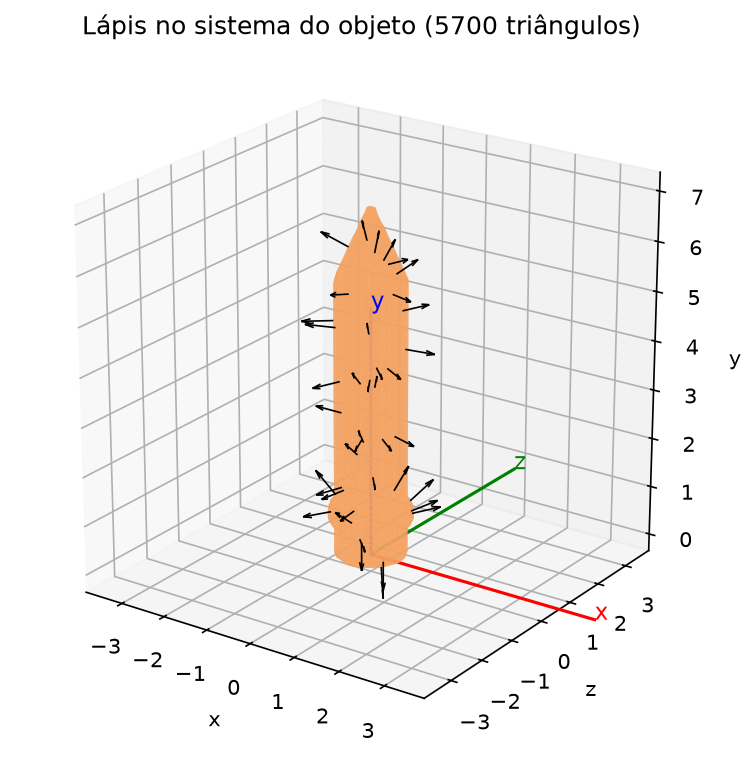
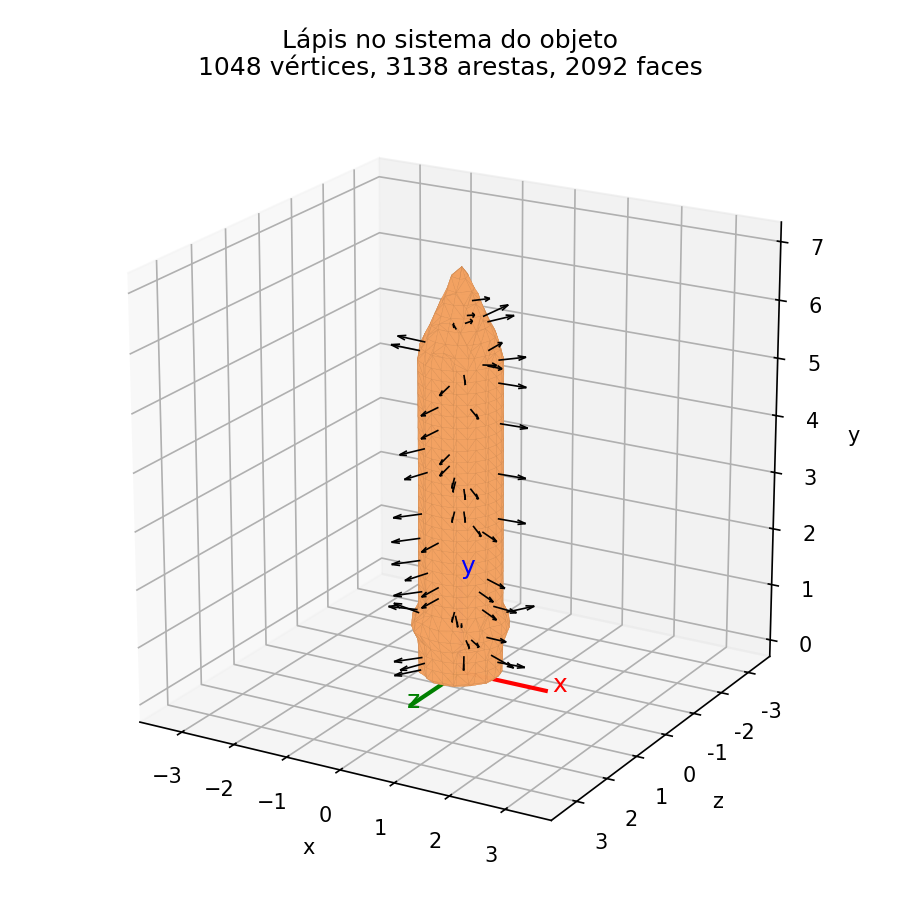
feat(modeling): implementa função criar_solido e catálogo de objetos; atualiza visualização e documentação

diff --git a/main.py b/main.py
@@ -24,19 +24,13 @@ Z_BIAS        = 0.005                           # Tolerância do Z-buffer para e
 # CENA — peças, posições, cores e limites do Marching Cubes
 # ==============================================================================
 CENA = [
-    # (função_de_campo, pos_x, pos_z, cor_hex, label, escala, limites_malha)
-    (modeling.gerar_campo_peao,   -7.5, -4.5, "#E63946", "Peão",   1.0, None),
-    (modeling.gerar_campo_lapis,  -4.5,  1.5, "#F4A261", "Lápis",  1.0, (-1.5, 8)),
-    (modeling.gerar_campo_altere, -1.5, -4.5, "#2A9D8F", "Altere", 1.0, (-3.5, 3.5)),
-    (modeling.gerar_campo_martelo, 1.5,  1.5, "#A8DADC", "Martelo", 1.0, (-2, 6)),
-    (modeling.gerar_campo_lixeira, 4.5, -4.5, "#C77DFF", "Lixeira", 1.0, (-2.5, 4.5)),
+    # (nome do sólido em modeling.MODELOS, pos_x, pos_z, escala)
+    ("Peão",    -7.5, -4.5, 1.0),
+    ("Lápis",   -4.5,  1.5, 1.0),
+    ("Altere",  -1.5, -4.5, 1.0),
+    ("Martelo",  1.5,  1.5, 1.0),
+    ("Lixeira",  4.5, -4.5, 1.0),
 ]
-
-
-def hex_to_rgb(hex_str):
-    """Converte '#RRGGBB' em tupla RGB float [0.0, 1.0]."""
-    hex_str = hex_str.lstrip('#')
-    return [int(hex_str[i:i + 2], 16) / 255.0 for i in (0, 2, 4)]
 
 
 def construir_matriz_mundo(px, pz, escala=1.0, rotacao_y=0.0):
@@ -174,7 +168,7 @@ def desenhar_caixa_proporcao_mundo(imagem, z_buffer, view_matrix, proj_matrix, r
 # ==============================================================================
 # PIPELINE DE RENDERIZAÇÃO — Culling + Phong + Scan-line + Z-buffer
 # ==============================================================================
-def renderizar_cena_completa(resolucao_tela, view_matrix, proj_matrix, cache_malhas,
+def renderizar_cena_completa(resolucao_tela, view_matrix, proj_matrix, solidos,
                              posicao_camera, posicao_luz, modo_blender=False):
     """
     Renderiza a cena completa em uma imagem NumPy (H x W x 3).
@@ -192,11 +186,13 @@ def renderizar_cena_completa(resolucao_tela, view_matrix, proj_matrix, cache_mal
 
     desenhar_caixa_proporcao_mundo(imagem, z_buffer, view_matrix, proj_matrix, resolucao_tela)
 
-    for func_campo, px, pz, cor_hex, label, escala, limites in CENA:
-        cache_key = func_campo.__name__ + str(limites)
-        verts, faces, normais = cache_malhas[cache_key]
+    for nome, px, pz, escala in CENA:
+        solido  = solidos[nome]
+        verts   = solido["vertices"]
+        faces   = solido["faces"]
+        normais = solido["normais_vertices"]
         matriz_mundo = construir_matriz_mundo(px, pz, escala=escala)
-        cor_base     = hex_to_rgb(cor_hex)
+        cor_base     = solido["cor"]
 
         # Estágio 1: transforma vértices e normais para o espaço do mundo
         vertices_tela   = []
@@ -208,8 +204,8 @@ def renderizar_cena_completa(resolucao_tela, view_matrix, proj_matrix, cache_mal
             v_mundo = matriz_mundo @ np.array([verts[i][0], verts[i][1], verts[i][2], 1.0])
             vertices_mundo.append(v_mundo[:3])
 
-            # Marching Cubes retorna normais apontando para o interior (F < 0); invertemos
-            n_mundo = (matriz_mundo @ np.append(-normais[i], 0.0))[:3]
+            # Normais do sólido já apontam para fora (ver modeling.criar_solido)
+            n_mundo = (matriz_mundo @ np.append(normais[i], 0.0))[:3]
             normais_mundo.append(n_mundo)
 
             v_ndc = math_3d.divisao_perspectiva(proj_matrix @ (view_matrix @ v_mundo))
@@ -290,15 +286,12 @@ def renderizar_cena_completa(resolucao_tela, view_matrix, proj_matrix, cache_mal
 def main():
     print("=== PIPELINE CG — MALHAS + PHONG + SCAN-LINE + Z-BUFFER ===")
 
-    # Cache de malhas: cada peça é extraída uma única vez
-    cache_malhas = {}
+    # Item 1: cada sólido é construído uma única vez (vértices, arestas, faces, normais, cor)
+    solidos = {}
     total = len(CENA)
-    for i, (func_campo, px, pz, cor_hex, label, escala, limites) in enumerate(CENA):
-        cache_key = func_campo.__name__ + str(limites)
-        print(f"  [{i + 1}/{total}] Extraindo malha: {label}")
-        if cache_key not in cache_malhas:
-            kwargs = {"limites": limites, "resolucao": RESOLUCAO_MARCHING_CUBES} if limites else {"resolucao": RESOLUCAO_MARCHING_CUBES}
-            cache_malhas[cache_key] = modeling.extrair_malha(func_campo, **kwargs)
+    for i, (nome, *_resto) in enumerate(CENA):
+        print(f"  [{i + 1}/{total}] Criando sólido: {nome}")
+        solidos[nome] = modeling.obter_solido(nome, RESOLUCAO_MARCHING_CUBES)
 
     # Matrizes de câmera e projeção para cada viewport
     view_principal = math_3d.look_at(eye=EYE_PRINCIPAL, at=AT, up=UP)
@@ -314,7 +307,7 @@ def main():
         print(f"  Rasterizando {res}×{res}...")
         img = renderizar_cena_completa(
             res, view_principal, proj_principal,
-            cache_malhas, EYE_PRINCIPAL, POSICAO_LUZ
+            solidos, EYE_PRINCIPAL, POSICAO_LUZ
         )
         ax.imshow(img)
         ax.set_title(f"Resolução: {res} × {res}", fontsize=11, fontweight='bold', color='#2c3e50')
@@ -328,7 +321,7 @@ def main():
     print("\n  Rasterizando viewport externa 800×800...")
     img_blender = renderizar_cena_completa(
         800, view_blender, proj_blender,
-        cache_malhas, EYE_BLENDER, POSICAO_LUZ,
+        solidos, EYE_BLENDER, POSICAO_LUZ,
         modo_blender=True
     )
 

diff --git a/visualizar_objetos.py b/visualizar_objetos.py
@@ -1,0 +1,112 @@
+"""
+visualizar_objetos.py — Item 1e do enunciado
+=============================================
+Mostra cada um dos 5 sólidos no seu próprio sistema de coordenadas (sistema do objeto),
+com os eixos x, y, z na origem e setas com as normais de algumas faces.
+
+Uso:
+    python3 visualizar_objetos.py            # abre uma janela por objeto
+    python3 visualizar_objetos.py --salvar   # salva os PNGs nas figuras do relatório
+"""
+
+import sys
+from pathlib import Path
+
+import numpy as np
+import matplotlib.pyplot as plt
+from matplotlib.ticker import FuncFormatter
+from mpl_toolkits.mplot3d.art3d import Poly3DCollection
+
+import modeling
+
+RESOLUCAO = 50          # grade do Marching Cubes (menor que a da cena, para o plot ficar leve)
+NUM_NORMAIS = 60        # quantas normais de face desenhar como setas
+ELEVACAO, AZIMUTE = 20, -60   # ângulo de visão do plot (graus)
+PASTA_FIGURAS = Path(__file__).parent / "relatorio/figuras/03-desenvolvimento/01-modelagem"
+ARQUIVOS = {"Peão": "peao", "Lápis": "lapis", "Altere": "haltere",
+            "Martelo": "martelo", "Lixeira": "lixeira"}
+
+
+def para_plot(pontos):
+    """
+    O matplotlib desenha o 3º eixo para cima. Nos nossos objetos o "para cima" é y, então,
+    só na hora de desenhar, levamos (x, y, z) -> (x, -z, y). Isso é uma rotação de 90° em
+    torno de x (não um espelhamento), então o sistema continua sendo de mão direita.
+    """
+    pontos = np.asarray(pontos, dtype=float)
+    return np.stack([pontos[..., 0], -pontos[..., 2], pontos[..., 1]], axis=-1)
+
+
+def mostrar_solido(solido, ax):
+    vertices = solido["vertices"]
+    faces = solido["faces"]
+    cor = solido["cor"]
+
+    # Faces e arestas com a mesma cor do sólido
+    triangulos = para_plot(vertices[faces])
+    malha = Poly3DCollection(triangulos, facecolor=cor, edgecolor=cor * 0.85,
+                             linewidths=0.1, alpha=0.9)
+    ax.add_collection3d(malha)
+
+    # Normais: seta saindo do centroide de algumas faces. O matplotlib não esconde o que
+    # fica atrás da malha, então só sorteamos faces viradas para quem olha o gráfico.
+    e, a = np.radians(ELEVACAO), np.radians(AZIMUTE)
+    olho = np.array([np.cos(e) * np.cos(a), np.sin(e), -np.cos(e) * np.sin(a)])  # em (x, y, z)
+    visiveis = np.flatnonzero(solido["normais_faces"] @ olho > 0.3)
+    rng = np.random.default_rng(0)
+    escolhidas = rng.choice(visiveis, size=min(NUM_NORMAIS, len(visiveis)), replace=False)
+    centroides = vertices[faces[escolhidas]].mean(axis=1)
+    normais = solido["normais_faces"][escolhidas]
+    c, n = para_plot(centroides), para_plot(normais)
+    ax.quiver(c[:, 0], c[:, 1], c[:, 2], n[:, 0], n[:, 1], n[:, 2],
+              length=0.5, color="black", linewidth=0.8, arrow_length_ratio=0.3)
+
+    # Mesma escala nos 3 eixos para não deformar o objeto
+    minimo, maximo = vertices.min(axis=0), vertices.max(axis=0)
+    centro = (minimo + maximo) / 2
+    raio = (maximo - minimo).max() / 2 + 0.3
+
+    # Eixos do sistema do objeto, saindo da origem (compridos para sair de dentro do sólido)
+    tam = max(1.5, np.abs(vertices).max(axis=0)[[0, 2]].max() + 0.8)
+    for direcao, rotulo, cor_eixo in [((tam, 0, 0), "x", "red"),
+                                      ((0, tam, 0), "y", "blue"),
+                                      ((0, 0, tam), "z", "green")]:
+        d = para_plot(np.array(direcao, dtype=float))
+        ax.plot([0, d[0]], [0, d[1]], [0, d[2]], color=cor_eixo, linewidth=2)
+        ax.text(*(d * 1.08), rotulo, color=cor_eixo, fontsize=12)
+
+    raio = max(raio, tam - np.abs(centro).max() + 0.3)
+    c = para_plot(centro)
+    ax.set_xlim(c[0] - raio, c[0] + raio)
+    ax.set_ylim(c[1] - raio, c[1] + raio)
+    ax.set_zlim(c[2] - raio, c[2] + raio)
+    # O 2º eixo do gráfico guarda -z; o rótulo mostra o valor de z de verdade.
+    ax.yaxis.set_major_formatter(FuncFormatter(lambda valor, _: f"{-valor + 0.0:g}"))
+    ax.set_box_aspect((1, 1, 1))
+    ax.set_xlabel("x"); ax.set_ylabel("z"); ax.set_zlabel("y")
+    ax.set_title(f"{solido['nome']} no sistema do objeto\n"
+                 f"{len(vertices)} vértices, {len(solido['arestas'])} arestas, "
+                 f"{len(faces)} faces")
+    ax.view_init(elev=ELEVACAO, azim=AZIMUTE)
+
+
+def main():
+    salvar = "--salvar" in sys.argv
+    for nome in modeling.MODELOS:
+        print(f"Criando sólido: {nome}")
+        solido = modeling.obter_solido(nome, RESOLUCAO)
+        fig = plt.figure(figsize=(6, 6))
+        ax = fig.add_subplot(projection="3d")
+        mostrar_solido(solido, ax)
+        fig.tight_layout()
+        if salvar:
+            destino = PASTA_FIGURAS / f"{ARQUIVOS[nome]}.png"
+            fig.savefig(destino, dpi=150)
+            plt.close(fig)
+            print(f"  salvo em {destino}")
+    if not salvar:
+        plt.show()
+
+
+if __name__ == "__main__":
+    main()

diff --git a/modeling.py b/modeling.py
@@ -23,6 +23,68 @@ def extrair_malha(funcao_campo, limites=(-5, 12), resolucao=100):
 
 
 # ==============================================================================
+# SÓLIDO COMPLETO — item 1 do enunciado
+# ==============================================================================
+
+def criar_solido(funcao_campo, nome, cor, limites=(-5, 12), resolucao=80):
+    """
+    Constrói o sólido completo a partir da sua função de campo F(x, y, z).
+
+    Retorna um dicionário com:
+      nome             : nome do objeto
+      cor              : cor RGB em [0, 1] (faces e arestas usam a mesma cor)
+      vertices         : matriz (V, 3) com as coordenadas x, y, z de cada vértice
+      arestas          : matriz (A, 2) com os pares de índices de vértices (sem repetição)
+      faces            : matriz (F, 3) com os 3 índices de vértices de cada triângulo
+      normais_faces    : matriz (F, 3) com a normal unitária de cada face, para fora
+      normais_vertices : matriz (V, 3) com a normal unitária de cada vértice, para fora
+
+    Tudo está no sistema de coordenadas do objeto.
+    """
+    vertices, faces, normais_v = extrair_malha(funcao_campo, limites, resolucao)
+    faces = faces.astype(np.int64)
+
+    # O scikit-image calcula a normal pelo gradiente no sentido em que F diminui,
+    # ou seja, para dentro do sólido (F < 0). Invertendo o sinal, ela aponta para fora.
+    normais_v = -normais_v
+    normais_v /= np.linalg.norm(normais_v, axis=1, keepdims=True) + 1e-12
+
+    # Normal de cada face: produto vetorial de duas arestas do triângulo.
+    a, b, c = vertices[faces[:, 0]], vertices[faces[:, 1]], vertices[faces[:, 2]]
+    normais_f = np.cross(b - a, c - a)
+    normais_f /= np.linalg.norm(normais_f, axis=1, keepdims=True) + 1e-12
+
+    # Garante que a normal da face aponte para fora: compara com a média das normais
+    # dos seus 3 vértices. Se estiver ao contrário, inverte a normal e a ordem dos
+    # vértices (a ordem define o sentido do produto vetorial, usado no back-face culling).
+    media_v = normais_v[faces].mean(axis=1)
+    inverter = np.sum(normais_f * media_v, axis=1) < 0
+    normais_f[inverter] *= -1
+    faces[inverter] = faces[inverter][:, [0, 2, 1]]
+
+    # Arestas: cada triângulo tem 3 (v0-v1, v1-v2, v2-v0). Uma aresta é compartilhada
+    # por 2 triângulos, então ordenamos cada par e removemos as repetidas.
+    todas = np.vstack([faces[:, [0, 1]], faces[:, [1, 2]], faces[:, [2, 0]]])
+    arestas = np.unique(np.sort(todas, axis=1), axis=0)
+
+    return {
+        "nome": nome,
+        "cor": np.asarray(cor, dtype=float),
+        "vertices": vertices,
+        "arestas": arestas,
+        "faces": faces,
+        "normais_faces": normais_f,
+        "normais_vertices": normais_v,
+    }
+
+
+def hex_para_rgb(hex_str):
+    """Converte '#RRGGBB' em [r, g, b] com valores em [0, 1]."""
+    hex_str = hex_str.lstrip('#')
+    return [int(hex_str[i:i + 2], 16) / 255.0 for i in (0, 2, 4)]
+
+
+# ==============================================================================
 # PEÇAS — usando primitives.py
 # ==============================================================================
 
@@ -124,3 +186,23 @@ def gerar_campo_lixeira(x, y, z):
                  r_maior=R_TOPO - ESPESSURA / 2, r_tubo=0.14)
 
     return uniao(corpo, borda)
+
+
+# ==============================================================================
+# CATÁLOGO DOS 5 OBJETOS
+# ==============================================================================
+# nome -> (função de campo, limites da grade do Marching Cubes, cor)
+# Os limites são o cubo [min, max]^3 onde F é avaliada; precisam envolver o objeto inteiro.
+MODELOS = {
+    "Peão":    (gerar_campo_peao,    (-2.5, 5.5), "#E63946"),
+    "Lápis":   (gerar_campo_lapis,   (-1.5, 8.0), "#F4A261"),
+    "Altere":  (gerar_campo_altere,  (-3.5, 3.5), "#2A9D8F"),
+    "Martelo": (gerar_campo_martelo, (-2.0, 6.0), "#A8DADC"),
+    "Lixeira": (gerar_campo_lixeira, (-2.5, 4.5), "#C77DFF"),
+}
+
+
+def obter_solido(nome, resolucao=80):
+    """Cria o sólido completo de um dos 5 objetos do catálogo pelo nome."""
+    funcao_campo, limites, cor_hex = MODELOS[nome]
+    return criar_solido(funcao_campo, nome, hex_para_rgb(cor_hex), limites, resolucao)

diff --git a/relatorio/secoes/03-desenvolvimento/01-modelagem.tex b/relatorio/secoes/03-desenvolvimento/01-modelagem.tex
@@ -1,6 +1,6 @@
 % Etapa 1 do enunciado: modelagem dos 5 objetos.
 % Fonte no código: primitives.py, modeling.py
-% Pendência de código: função que retorna o sólido completo (vértices, arestas, faces, normais, cor).
+% Função que retorna o sólido: modeling.criar_solido. Figuras geradas por visualizar_objetos.py --salvar.
 \subsection{Modelagem dos objetos}\label{sec:modelagem}
 
 Foram modelados cinco objetos do cotidiano: lápis, peão de xadrez, haltere, martelo e lixeira. Cada
@@ -25,7 +25,26 @@ algoritmo \textit{Marching Cubes} \cite{lorensen1987}, da biblioteca scikit-imag
 normal por vértice. Essas normais saem apontando para dentro, então o código troca o sinal para que
 apontem para fora. A normal de cada face é o produto vetorial $(v_1 - v_0) \times (v_2 - v_0)$.
 
-\confirmar{explicar a função que retorna o sólido (vértices, arestas, faces, normais e cor), depois de criada no código}
+Como pede o enunciado, a função \texttt{criar\_solido} (em \texttt{modeling.py}) devolve o sólido
+completo, em coordenadas do objeto:
+
+\begin{itemize}
+  \item \textbf{vértices}: matriz $V \times 3$ com as coordenadas $(x, y, z)$;
+  \item \textbf{faces}: matriz $F \times 3$, cada linha com os índices dos três vértices de um
+        triângulo;
+  \item \textbf{arestas}: matriz $A \times 2$ com os pares de vértices ligados. Cada triângulo tem
+        três arestas e cada aresta é compartilhada por dois triângulos, então os pares são
+        ordenados e os repetidos são removidos;
+  \item \textbf{normais das faces}: vetor unitário de cada triângulo, apontando para fora;
+  \item \textbf{normais dos vértices}: vetor unitário de cada vértice, apontando para fora;
+  \item \textbf{cor}: RGB do sólido, a mesma para faces e arestas.
+\end{itemize}
+
+Para garantir que a normal de cada face aponta para fora, ela é comparada com a média das normais
+dos seus três vértices. Se o produto escalar for negativo, a normal e a ordem dos vértices da face
+são invertidas. Dois testes confirmam o resultado nos cinco objetos: o volume calculado pelas faces
+(teorema da divergência) é positivo, o que só acontece com as normais para fora, e toda malha
+satisfaz $V - A + F = 2$, ou seja, é uma superfície fechada, sem buracos.
 
 A Figura~\ref{fig:objetos} mostra os objetos, cada um no seu sistema, com os eixos e as normais de
 algumas faces (setas pretas).

diff --git a/DOCUMENTACAO.md b/DOCUMENTACAO.md
@@ -20,7 +20,7 @@ imagem final rasterizada) e alguns ajustes pontuais exigidos pelo enunciado.
 
 | Item do enunciado | Status | Resumo |
 |---|---|---|
-| 1 – Modelagem dos 5 objetos | 🟡 Parcial | Objetos prontos; falta a função que retorna o sólido completo e o plot de cada um no seu sistema |
+| 1 – Modelagem dos 5 objetos | 🟢 Pronto | `modeling.criar_solido` retorna o sólido completo; `visualizar_objetos.py` mostra cada um no seu sistema |
 | 2 – Cena no mundo | 🟡 Parcial | Cena montada e validada; falta usar rotação/escala de fato, `rotacao_x/z` e plot 3D do mundo |
 | 3 – Sistema da câmera | 🟡 Parcial | `look_at` calcula a base; falta exibir a base, plotar em coordenadas da câmera e marcar a origem corretamente |
 | 4 – Projeção perspectiva | 🟡 Parcial | Matemática pronta; falta recorte pelo volume de visão, plot 3D + janela de projeção, arestas na cor do sólido |
@@ -54,7 +54,8 @@ Saída:
 | Arquivo | Responsabilidade | Status |
 |---|---|---|
 | `primitives.py` | Formas implícitas F(x,y,z) (F<0 dentro) e operações CSG | Pronto (+ `cilindro_x` novo) |
-| `modeling.py` | `extrair_malha` (Marching Cubes) + os 5 objetos | Pronto |
+| `modeling.py` | `extrair_malha` (Marching Cubes), os 5 objetos, `criar_solido`/`obter_solido` e o catálogo `MODELOS` (limites e cor) | Pronto |
+| `visualizar_objetos.py` | Item 1e: plot 3D de cada sólido no sistema do objeto (`--salvar` grava as figuras do relatório) | Pronto |
 | `math_3d.py` | Matrizes 4×4: translação, escala, rotação Y, look-at, perspectiva | Falta `rotacao_x`, `rotacao_z`, `base_camera` |
 | `illumination.py` | Modelo de Phong por vértice | Pronto |
 | `rasterizer.py` | Bresenham, área, baricêntricas, scan-line par-ímpar | Pronto |
@@ -197,10 +198,10 @@ Verificações feitas (resolução 80):
 ## 5. O que falta fazer (checklist)
 
 ### Item 1 — Modelagem
-- [ ] **Função que retorna o sólido** completo (exigência explícita): vértices, **arestas**,
+- [x] **Função que retorna o sólido** completo (exigência explícita): vértices, **arestas**,
       faces, normais por face e por vértice, cor. Proposta pronta em
       `Documentacao_Projeto_CG.pdf`, seção 6.2 (`criar_solido`).
-- [ ] **Mostrar cada sólido no seu sistema do objeto** (item 1e): plot 3D (matplotlib
+- [x] **Mostrar cada sólido no seu sistema do objeto** (item 1e): plot 3D (matplotlib
       `Poly3DCollection`) com eixos do objeto e setas das normais (`quiver`) nos centroides.
 - [ ] Confirmar com o professor se os 5 objetos são únicos na turma (o haltere aparece como
       sugestão na documentação de apoio, então outras equipes podem ter escolhido também).
